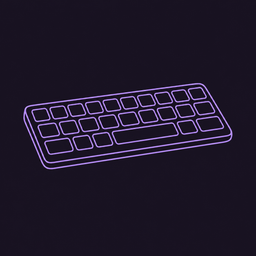
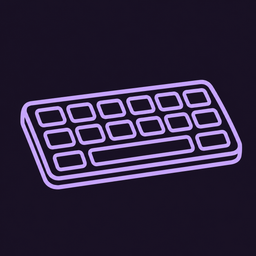
加強深色透視鍵盤圖示的小尺寸線條辨識度

Changed region(s): [[0.0625, 0.3125, 0.9688, 0.75]]

diff --git a/docs/index.html b/docs/index.html
@@ -1,7 +1,7 @@
 <!doctype html><html lang="zh-Hant"><head><meta charset=utf-8><meta name=viewport content="width=device-width,initial-scale=1,viewport-fit=cover"><style>:root{color-scheme:light;box-sizing:border-box;padding-top:env(safe-area-inset-top,0px);padding-bottom:env(safe-area-inset-bottom,0px)}html{scroll-padding-top:env(safe-area-inset-top,0px)}body{margin:0;padding:0;font:14px -apple-system,BlinkMacSystemFont,sans-serif;background:#fff;color:#000}img{max-width:100%}[hidden]:not([hidden=until-found i]){display:none!important}</style></head><body>
 <title>糯糯鍵盤｜下載與安裝</title>
-<link rel="icon" type="image/png" href="assets/app-icon.png?v=3">
-<link rel="apple-touch-icon" href="assets/app-icon.png?v=3">
+<link rel="icon" type="image/png" href="assets/app-icon.png?v=4">
+<link rel="apple-touch-icon" href="assets/app-icon.png?v=4">
 <meta name="description" content="糯糯鍵盤：奶油軟萌的手機鍵盤，11 款按鍵造型。下載 iPhone 與 Android 最新已發布版本。">
 <link rel="stylesheet" href="https://fonts.googleapis.com/css2?family=Fredoka:wght@500;600&family=Noto+Sans+TC:wght@400;500;700&display=swap">
 <style>
@@ -123,7 +123,7 @@
 
 <div class="wrap">
   <header style="display:flex;flex-direction:column;gap:8px">
-    <div class="brand"><img src="assets/app-icon.png?v=3" alt="深色底紫色透視線條鍵盤" width="76" height="76"><div><h1>糯糯鍵盤</h1><small>軟軟的按鍵，記住你的每一句。</small></div></div>
+    <div class="brand"><img src="assets/app-icon.png?v=4" alt="深色底紫色透視線條鍵盤" width="76" height="76"><div><h1>糯糯鍵盤</h1><small>軟軟的按鍵，記住你的每一句。</small></div></div>
     <p class="note">原「星星鍵盤」・下載與安裝說明</p>
     <p class="lead">自己做的手機鍵盤：注音（不打聲調也能出字）、拼音、手寫、英文、韓文、日文、表符、顏文字、花式文字、快捷片語、剪貼簿、翻譯、可愛主題和自己的背景照片。還沒上架商店，照下面的步驟自己安裝。</p>
   </header>
